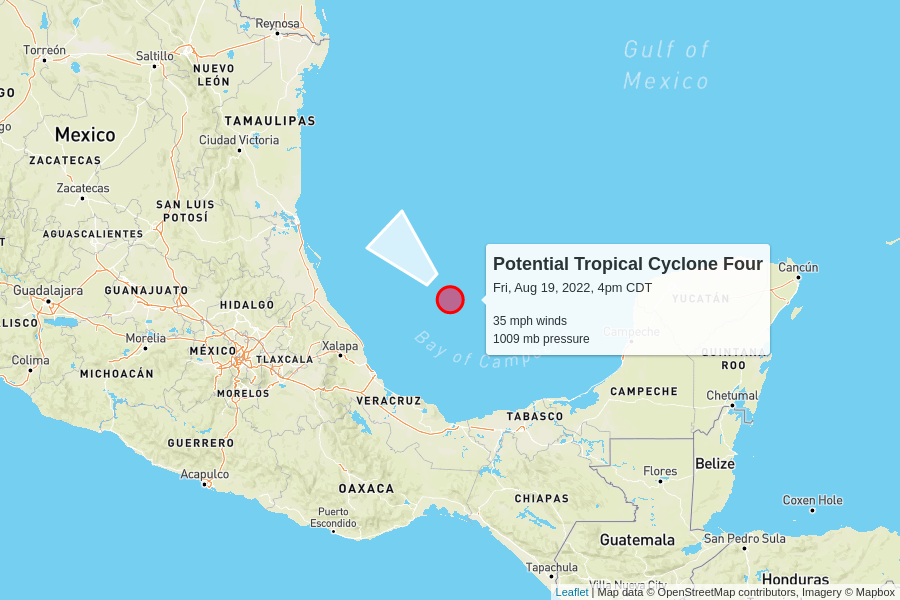
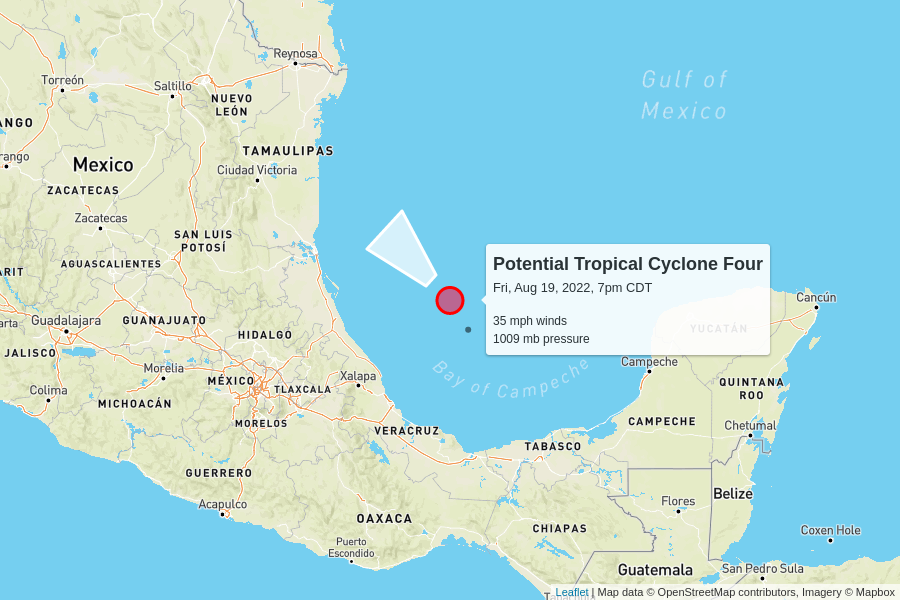
automatic update

diff --git a/docs/index.html b/docs/index.html
@@ -100,7 +100,7 @@
         <td colspan="6" class="storm category-0" >
           <h2>
             Potential Tropical Cyclone Four
-            <p class="updated">last updated <span data-time>2022-08-19T21:00:00.000Z</span></p>
+            <p class="updated">last updated <span data-time>2022-08-20T00:00:00.000Z</span></p>
           </h2>
         </td>
       </tr>
